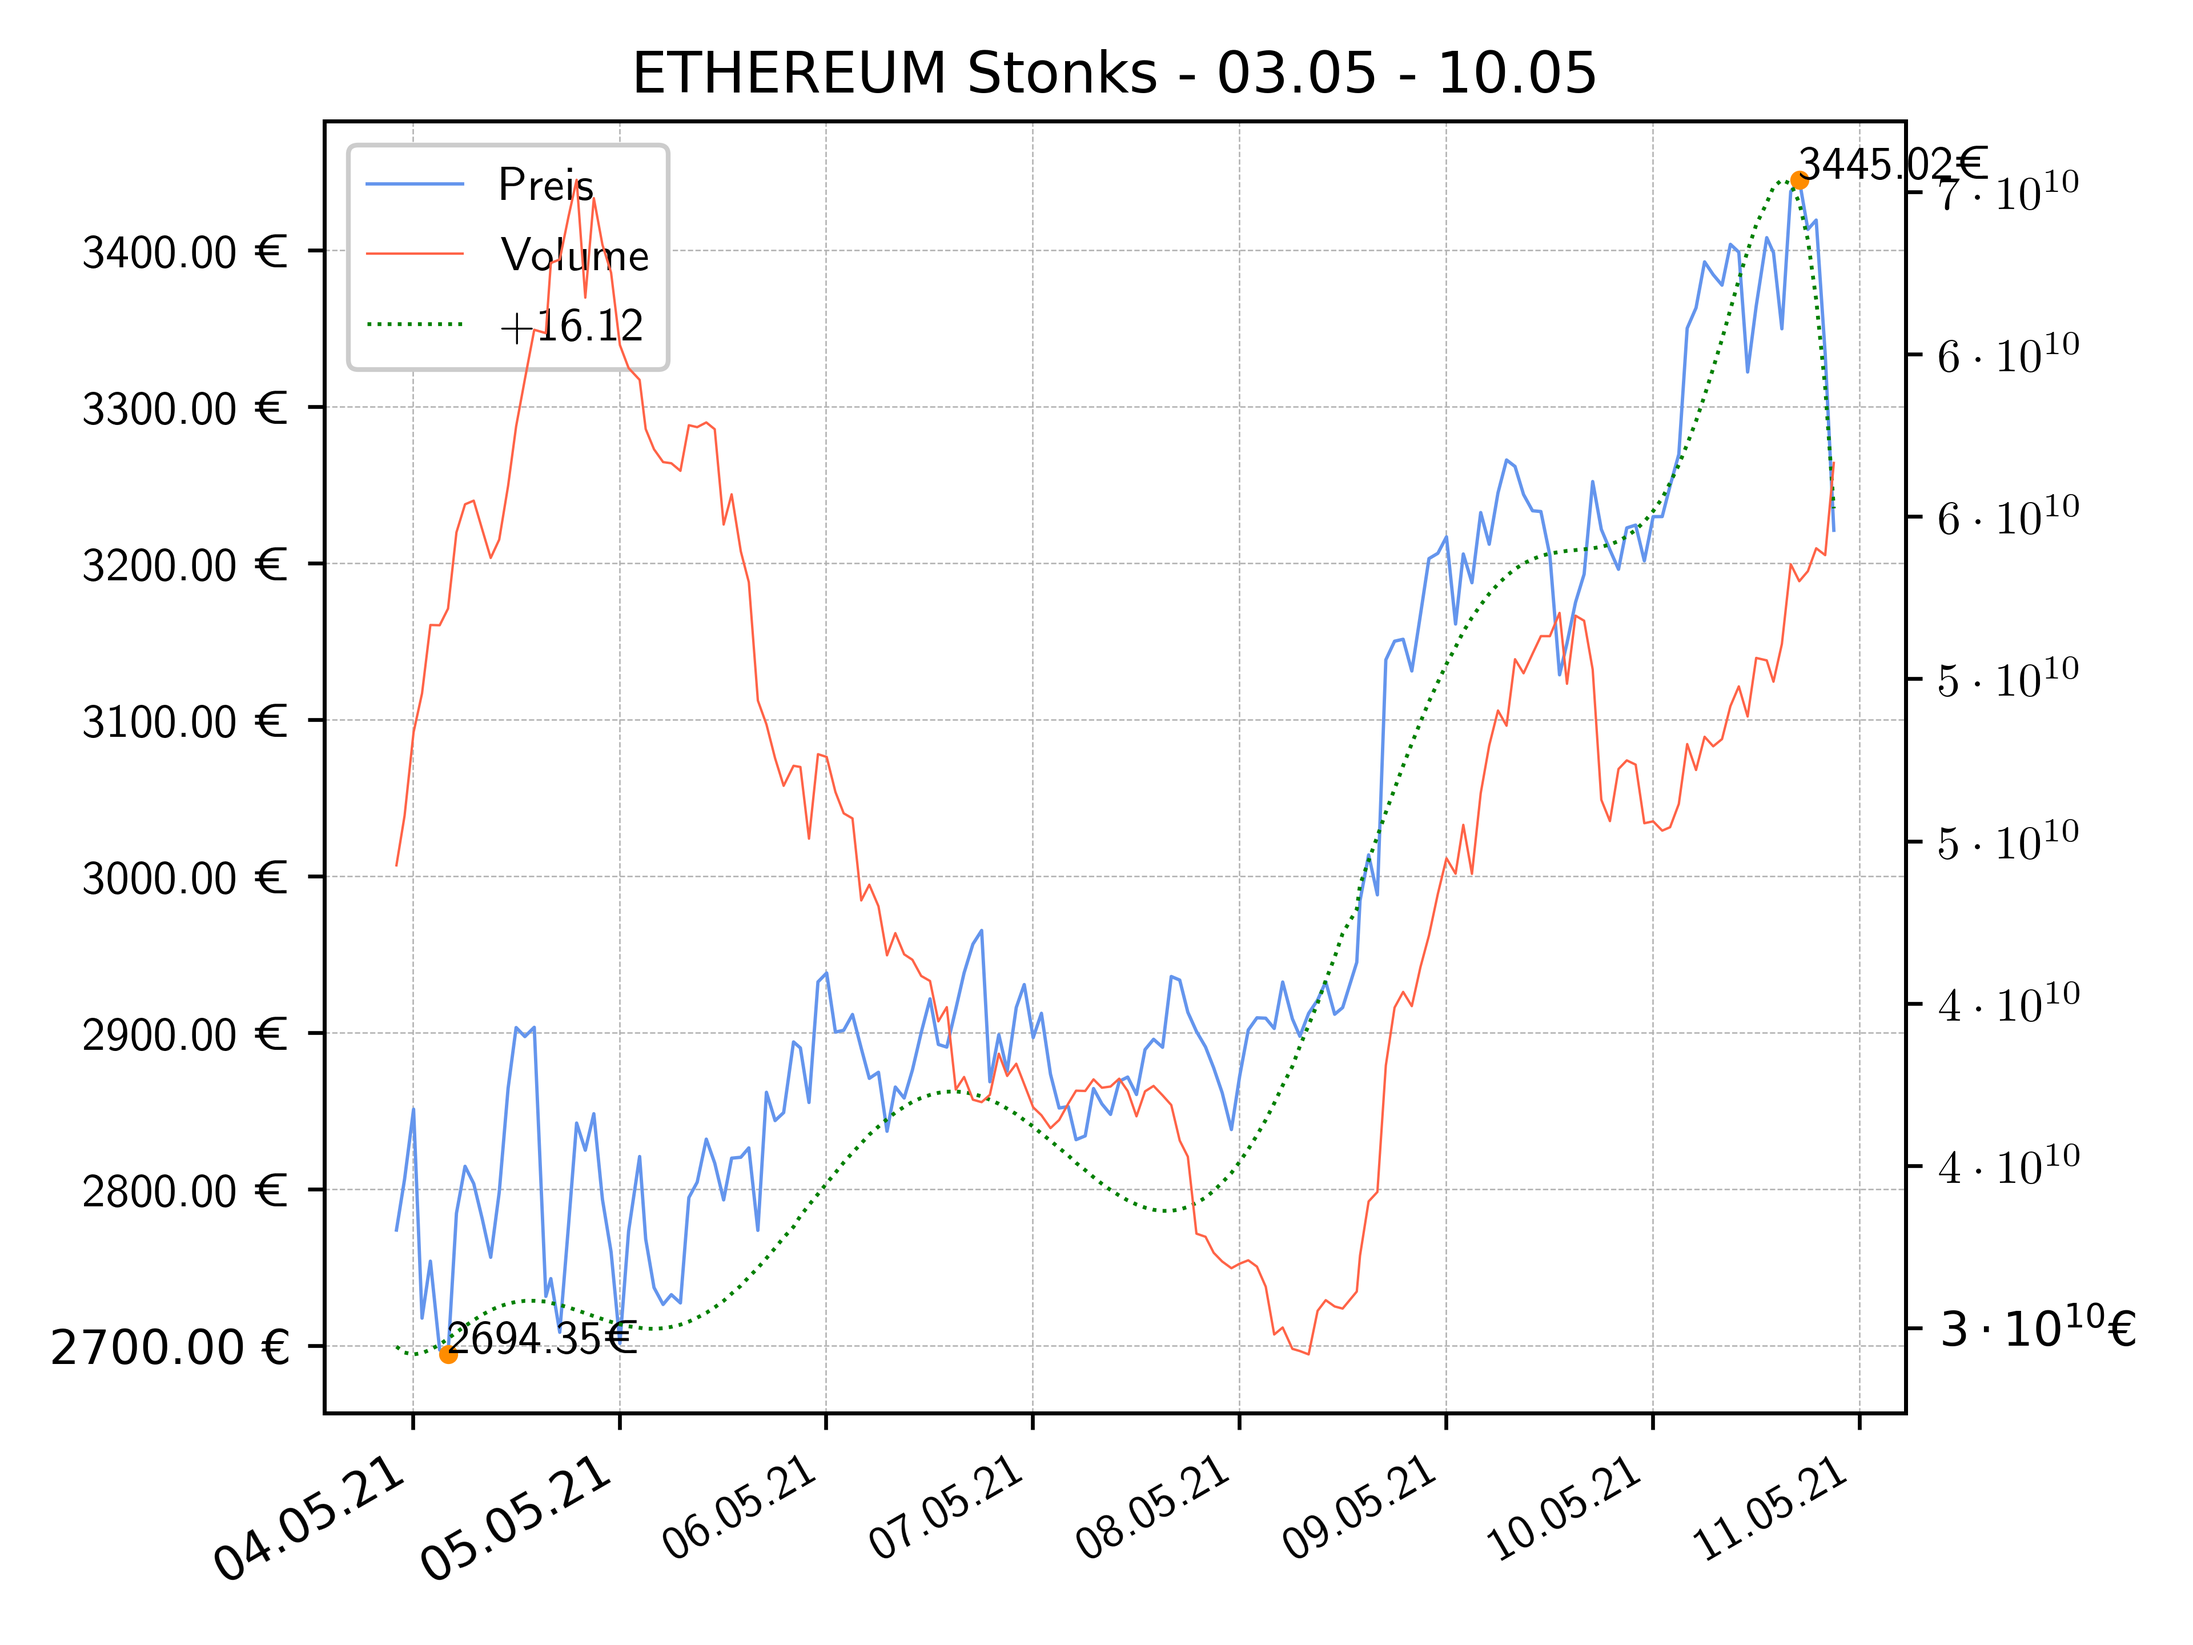
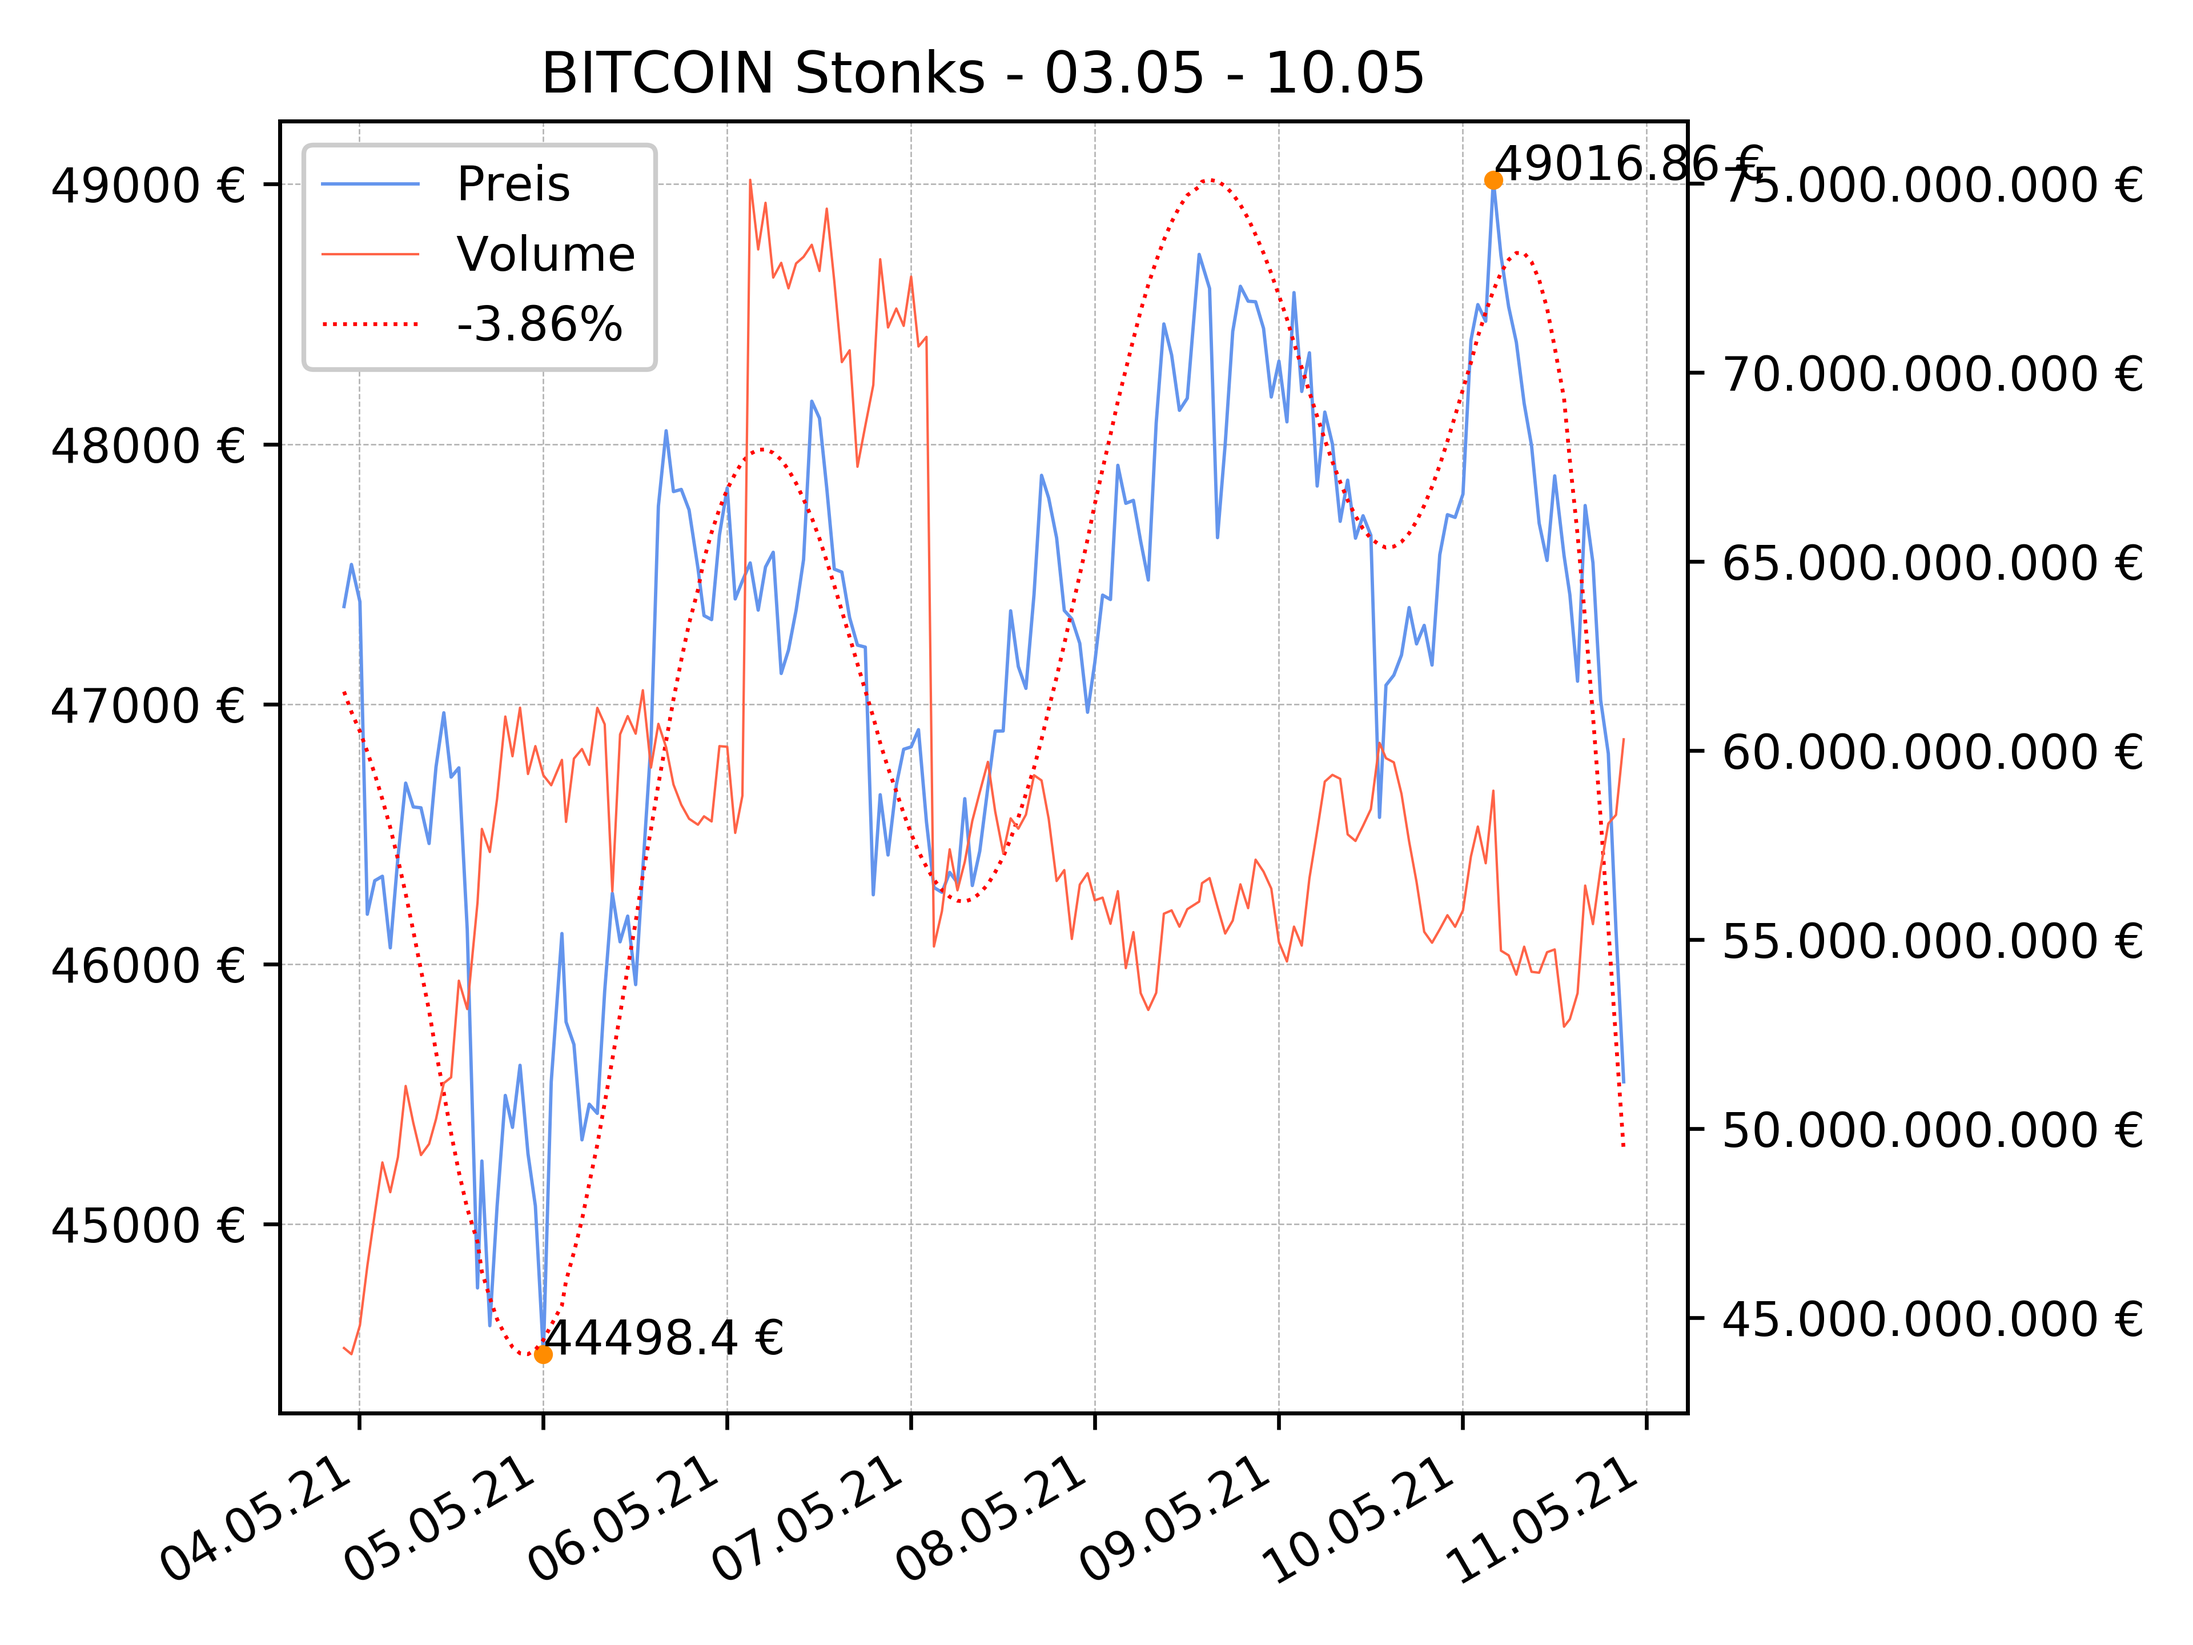
fetz

diff --git a/api.py b/api.py
@@ -1,4 +1,5 @@
 from matplotlib import markers
+import matplotlib
 import requests
 import matplotlib.pyplot as plt
 import matplotlib.ticker as mticker  
@@ -36,7 +37,7 @@ async def main(ctx, args):
     vol = []
     cap = []
 
-    pot = 0
+    #pot = 0
 
     for x in data['prices']:
         price.append(x[1])
@@ -45,8 +46,8 @@ async def main(ctx, args):
     for x in data['total_volumes']:
         kek = x[1]
 
-        pot = np.floor(np.log10(kek))
-        kek = kek / 10**pot
+        # pot = np.floor(np.log10(kek))
+        # kek = kek / 10**pot
 
         vol.append(kek)
 
@@ -97,8 +98,6 @@ async def main(ctx, args):
     for place, item in enumerate(derv):
         derv[place] = np.diff(price).tolist().index(item)
 
-    plt.rc('text', usetex=True)
-
     #---------------------------------------------------------------------------
     ax3.plot(date, vol, color="tomato", linewidth=0.5, zorder=0, label="Volume" )
     ax3.set_ylabel("", color="tomato",fontsize=14)
@@ -110,7 +109,7 @@ async def main(ctx, args):
 
     ax.plot(date, price, color="cornflowerblue", linewidth=0.7, label="Preis")
     ax.set_ylabel("", color="cornflowerblue", fontsize=14)
-    ax.get_yaxis().set_major_formatter(mticker.FormatStrFormatter('%.2f €'))
+    ax.get_yaxis().set_major_formatter(mticker.FormatStrFormatter("%i €"))
     ax.grid(b=True, which='both', linestyle="--", linewidth=0.3)
 
 
@@ -123,9 +122,10 @@ async def main(ctx, args):
 
     for p in poi:
         ax.plot(date[p], price[p], color="darkorange", marker=".")
-        ax.text(date[p], price[p], str(np.around(price[p],2))+"€")
+        ax.text(date[p], price[p], str(np.around(price[p],2))+" €")
 
-    ax3.get_yaxis().set_major_formatter(mticker.FormatStrFormatter("$%i " + "\cdot 10^{%i} \euro$" % pot))
+    #ax3.get_yaxis().set_major_formatter(mticker.FuncFormatter(lambda x, p: format(int(x), '.')))
+    ax3.get_yaxis().set_major_formatter(mticker.FuncFormatter(lambda x, p : f"{int(x):,}".replace(",",".") + " €"))
     ax3.get_xaxis().set_major_formatter(mdates.DateFormatter('%d.%m.%y'))
 
     #---------------------------------------------------------------------------
